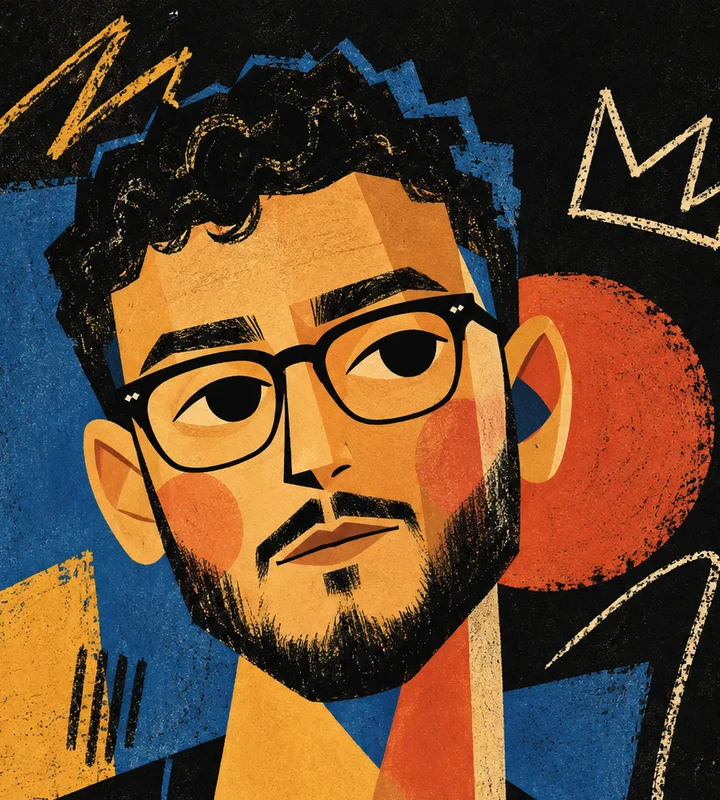
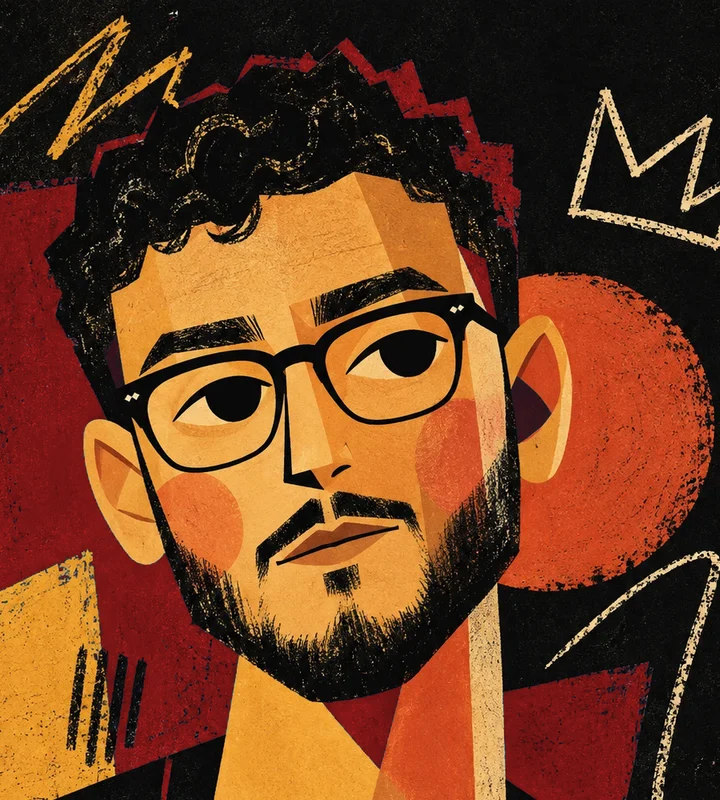
Portrait: blue areas recoloured to brand red

diff --git a/index.html b/index.html
@@ -230,7 +230,7 @@
           <clipPath id="eyeL"><path d="M217 527 Q265 458 340 482 Q338 512 300 525 Q260 532 217 527Z"/></clipPath>
           <clipPath id="eyeR"><path d="M433 467 Q478 392 559 426 Q556 455 533 468 Q490 480 433 467Z"/></clipPath>
         </defs>
-        <image href="assets/media/me-art.webp" width="900" height="1000" clip-path="url(#headClip)"/>
+        <image href="assets/media/me-art.webp?v=2" width="900" height="1000" clip-path="url(#headClip)"/>
         <g clip-path="url(#eyeL)"><rect x="200" y="390" width="380" height="160" fill="#f0d29c"/><circle class="pupil" data-cx="282" data-cy="502" data-rx="26" data-ry="7" r="28" fill="#0b0908"/></g>
         <path d="M217 527 Q265 458 340 482" fill="none" stroke="#0b0908" stroke-width="9" stroke-linecap="round"/>
         <g clip-path="url(#eyeR)"><rect x="200" y="390" width="380" height="160" fill="#f0d29c"/><circle class="pupil" data-cx="498" data-cy="446" data-rx="26" data-ry="7" r="33" fill="#0b0908"/></g>
